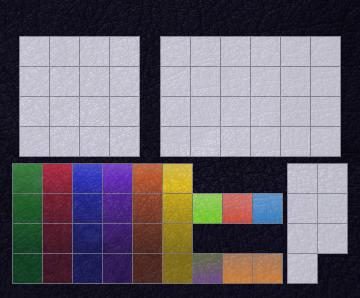
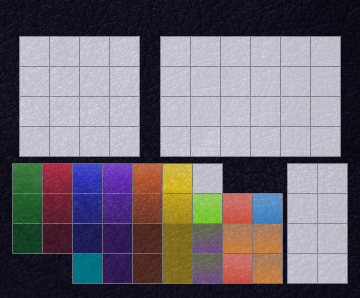
Reposition items in the item tracker to prep for new changes

diff --git a/JavaScript/itemTracker.js b/JavaScript/itemTracker.js
@@ -9,8 +9,9 @@ let setUpItemTracker = function() {
 
 	_createUIFromItemObject("Items", Items, document.getElementById("itemProgress"));
 	_createUIFromItemObject("Equipment", Equipment, document.getElementById("equipmentProgress"));
-	_createUIFromItemObject("Songs", Songs, document.getElementById("warpSongProgress"), 2);
 	_createUIFromItemObject("Songs", Songs, document.getElementById("normalSongProgress"), 1);
+	_createUIFromItemObject("Songs", Songs, document.getElementById("warpSongProgress"), 2);
+	_createUIFromItemObject("Songs", Songs, document.getElementById("scarecrowsSongProgress"), 3);
 	_createUIFromItemObject("Medallions", Medallions, document.getElementById("medallionProgress"));
 	
 	_setUpSmallKeyUI();
@@ -24,7 +25,7 @@ let setUpItemTracker = function() {
  */
 let _createUIFromItemObject = function(itemObjString, itemObject, divItems, divGroup) {
 	divItems.innerHTML = "";
-	Object.keys(itemObject).forEach(function(key, index) {
+	Object.keys(itemObject).forEach(function(key) {
 		let item = itemObject[key];
 		if (divGroup && item.divGroup !== divGroup) { return; }
 
@@ -33,6 +34,10 @@ let _createUIFromItemObject = function(itemObjString, itemObject, divItems, divG
 			divItem.id = key;
 			divItem.style.backgroundImage = getItemImagePath(item);
 
+			if (itemObjString === "Songs") { // Songs need their own CSS class
+				addCssClass(divItem, "item-song");
+			} 
+			
 			if (key === "SKULLTULA_TOKENS") { // Skulltula tokens have different behavior
 				let divTokenCount = dce("div", "countable-item");
 				divTokenCount.innerText = item.count;
@@ -178,6 +183,11 @@ let onItemMouseOver = function(item) {
 			displayText = `${itemName}${upgradeText}`;
 		}
 	}
+
+	// Add the boss key label
+	if (item.totalKeys) {
+		displayText = `${displayText} Boss Key`;
+	}
 	
 	divItemLabel.innerText = displayText;
 };
@@ -246,7 +256,6 @@ let getUpgradeIndex = function(item) {
  */
 let getItemImagePath = function(item) {
 	if (item.totalKeys) { // Set up for boss keys
-		let namePrefix = item.playerHas ? "" : " X";
 		return `url("Images/Boss Key.png")`;
 	}
 	
@@ -255,7 +264,6 @@ let getItemImagePath = function(item) {
 		let itemUpgrade = getUpgradeName(item);
 		return `url("Images/${itemName} ${itemUpgrade}.png")`;
 	} else {
-		let namePrefix = item.playerHas ? "" : " X";
 		return `url("Images/${itemName}.png")`;
 	}
 };

diff --git a/Styles/styles.css b/Styles/styles.css
@@ -277,8 +277,9 @@ body::-webkit-scrollbar-thumb {
 	height: 20px;
 }
 
-#equipmentProgress, #itemProgress, #normalSongProgress, 
-#warpSongProgress, #medallionProgress, #smallKeyProgress, #bossKeyProgress {
+#equipmentProgress, #itemProgress, 
+#normalSongProgress, #warpSongProgress, #scarecrowsSongProgress,
+#medallionProgress, #smallKeyProgress, #bossKeyProgress {
 	display: flex;
 	flex-wrap: wrap;
 	position: absolute;
@@ -296,16 +297,22 @@ body::-webkit-scrollbar-thumb {
 	left: 162px;
 }
 
-#warpSongProgress {
-	width: 180px;
+#normalSongProgress {
+	width: 180px;	
 	top: 165px;
 	left: 14px;
 }
 
-#normalSongProgress {
-	width: 60px;	
+#warpSongProgress {
+	width: 180px;
+	top: 180px;
+	left: 14px;
+}
+
+#scarecrowsSongProgress {
+	width: 30px;
 	top: 165px;
-	left: 289px;
+	left: 194px;
 }
 
 #medallionProgress {
@@ -316,14 +323,22 @@ body::-webkit-scrollbar-thumb {
 
 #smallKeyProgress {
 	width: 270px;
-	top: 255px;
+	top: 225px;
 	left: 14px;
 }
 
 #bossKeyProgress {
-	width: 180px;
+	justify-content: space-between;
+	pointer-events: none;
+	width: 165px;
 	top: 225px;
 	left: 14px;
+}
+
+#bossKeyProgress > .item {
+	pointer-events: all;
+	height: 15px;
+	width: 15px;
 }
 
 /* Item tracker individual components */
@@ -333,6 +348,11 @@ body::-webkit-scrollbar-thumb {
 	background-size: contain;
 	background-repeat: no-repeat;
 	background-position: center;
+}
+
+#normalSongProgress > .item-song, 
+#warpSongProgress > .item-song {
+	height: 15px;
 }
 
 #songProgress .item {

diff --git a/JavaScript/Data/itemData.js b/JavaScript/Data/itemData.js
@@ -62,7 +62,7 @@ let Songs = {
 	SUNS_SONG: { name: "Sun's Song", divGroup: 1 },
 	SONG_OF_STORMS: { name: "Song of Storms", divGroup: 1 },
 	SONG_OF_TIME: { name: "Song of Time", divGroup: 1 },
-	SCARECROWS_SONG: {name: "Scarecrow's Song", divGroup: 1 },
+	SCARECROWS_SONG: {name: "Scarecrow's Song", divGroup: 3 },
 	
 	MINUET_OF_FOREST: { name: "Minuet of Forest", divGroup: 2 },
 	BOLERO_OF_FIRE: { name: "Bolero of Fire", divGroup: 2 },

diff --git a/trackerHome.html b/trackerHome.html
@@ -53,8 +53,9 @@
 					<div id="itemLabel"></div>
 					<div id="equipmentProgress"></div>
 					<div id="itemProgress"></div>
-					<div id="warpSongProgress"></div>
 					<div id="normalSongProgress"></div>
+					<div id="warpSongProgress"></div>
+					<div id="scarecrowsSongProgress"></div>
 					<div id="medallionProgress"></div>
 					<div id="smallKeyProgress"></div>
 					<div id="bossKeyProgress"></div>
